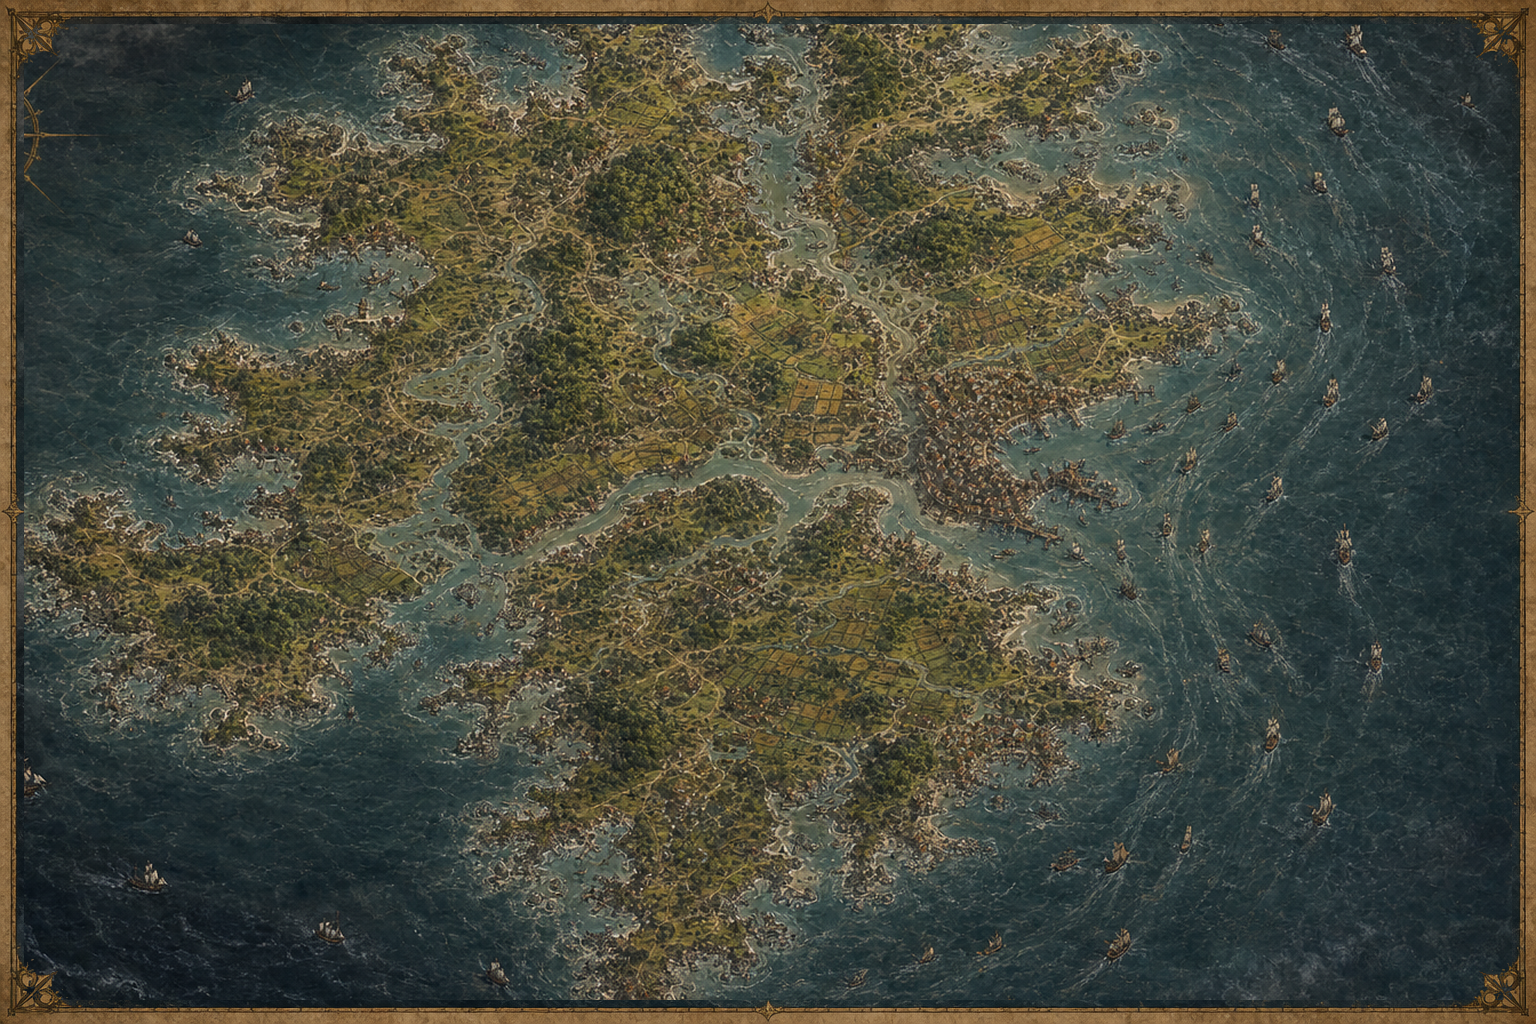
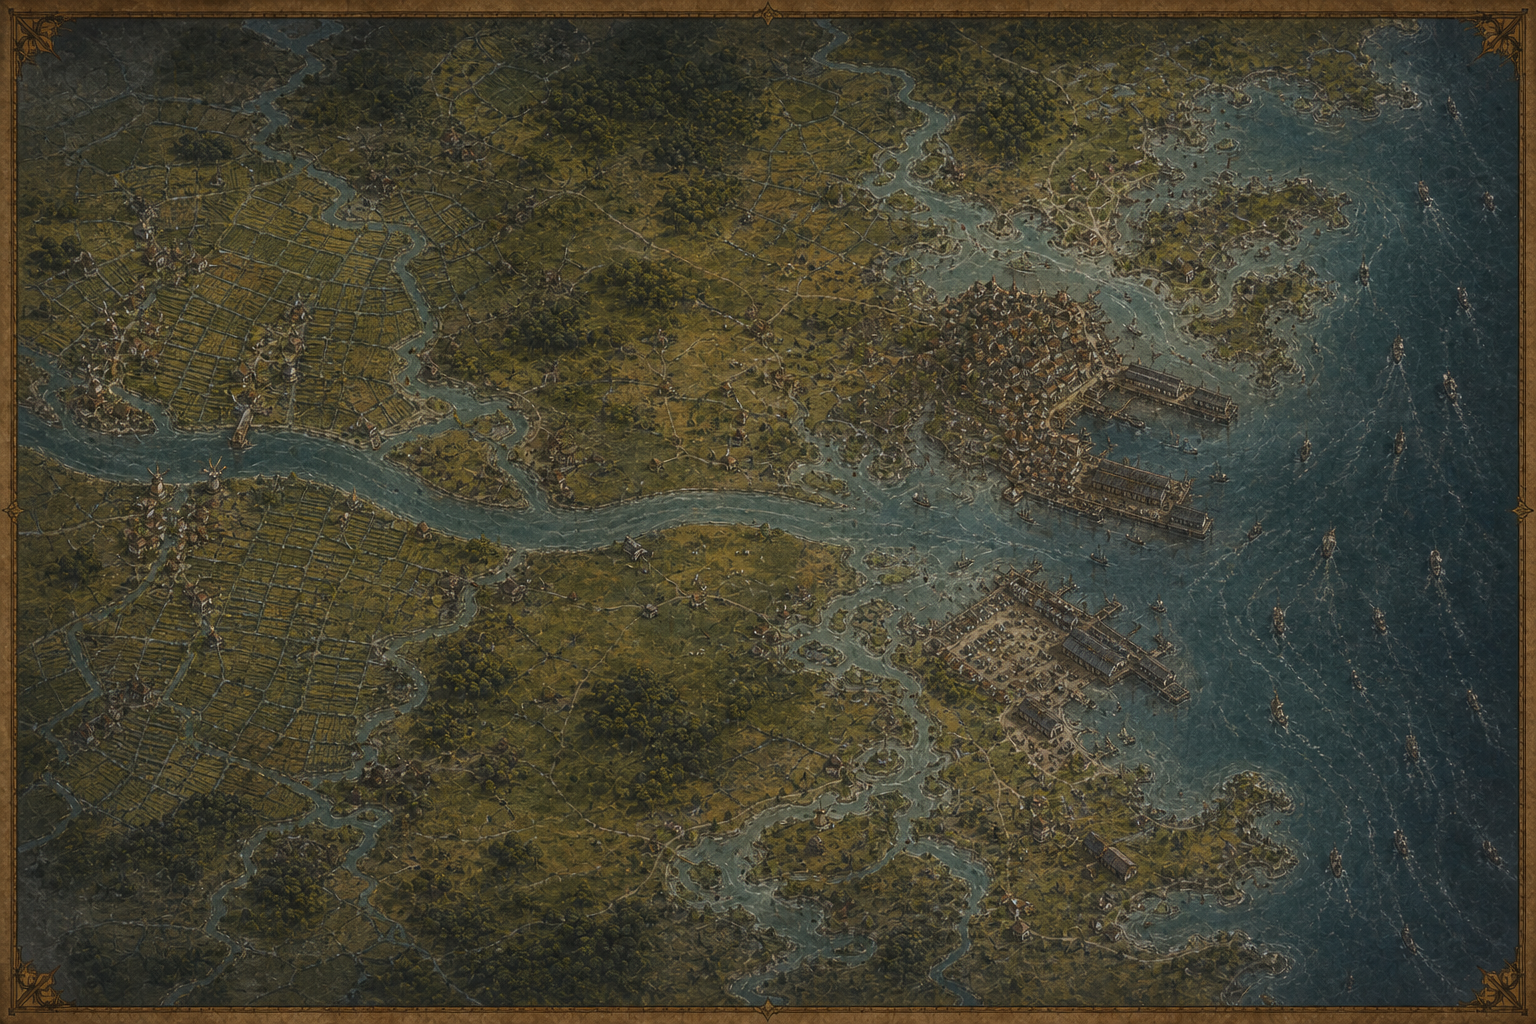
Paint distinct Chart-run and West Water sheets

diff --git a/14 - Assets/Maps/build_prototype3_regions.py b/14 - Assets/Maps/build_prototype3_regions.py
@@ -1,121 +1,20 @@
 #!/usr/bin/env python3
-"""Build the Strandoren regional windows from the Prototype 3 master.
+"""Retired crop builder.
 
-Chart-run and West Water remain literal parent windows. Sacred Core and
-Rain-Wall are separate generated regional paintings and must not be
-overwritten by this script.
+Sacred Core, Rain-Wall, Chart-run, and West Water are generated regional
+paintings inspired by their Prototype 3 parents. Do not rebuild them as
+crops of the continent masters; those windows made sibling sheets look
+identical.
 """
 
 from __future__ import annotations
 
-from dataclasses import dataclass
-from pathlib import Path
-
-import numpy as np
-from PIL import Image, ImageFilter, PngImagePlugin
-
-
-ROOT = Path(__file__).resolve().parent
-PROTOTYPE = ROOT / "prototype3"
-SIZE = (1536, 1024)
-
-
-@dataclass(frozen=True)
-class Region:
-    output: str
-    parent: str
-    crop: tuple[int, int, int, int]
-
-
-# Crop boxes are (left, top, right, bottom) in the 1536 x 1024 masters.
-# Each Strandoren window is 1344 x 896 (3:2), fitted 1.14x onto the sheet.
-REGIONS = (
-    Region(
-        "Chart-Run-Atlas.png",
-        "Strandoren-Atlas.png",
-        (192, 64, 1536, 960),
-    ),
-    Region(
-        "West-Water-Atlas.png",
-        "Strandoren-Atlas.png",
-        (0, 128, 1344, 1024),
-    ),
-)
-
-
-def apply_master_frame(image: Image.Image, master: Image.Image) -> Image.Image:
-    """Apply the parent's exact bronze rules and corner ornament."""
-    result = image.copy()
-    band = 24
-    result.paste(master.crop((0, 0, SIZE[0], band)), (0, 0))
-    result.paste(
-        master.crop((0, SIZE[1] - band, SIZE[0], SIZE[1])),
-        (0, SIZE[1] - band),
-    )
-    result.paste(master.crop((0, 0, band, SIZE[1])), (0, 0))
-    result.paste(
-        master.crop((SIZE[0] - band, 0, SIZE[0], SIZE[1])),
-        (SIZE[0] - band, 0),
-    )
-
-    # The corner flourishes extend beyond the rule. Copy only warm bronze
-    # pixels so no square of the master's ocean comes with the ornament.
-    master_pixels = np.asarray(master, dtype=np.int16)
-    red, green, blue = (
-        master_pixels[..., 0],
-        master_pixels[..., 1],
-        master_pixels[..., 2],
-    )
-    warm = (
-        (red > blue + 14)
-        & (green > blue + 4)
-        & (red > green + 4)
-        & ((red + green + blue) > 125)
-    )
-    corner_mask = np.zeros((SIZE[1], SIZE[0]), dtype=np.uint8)
-    corner = 96
-    for left, top in (
-        (0, 0),
-        (SIZE[0] - corner, 0),
-        (0, SIZE[1] - corner),
-        (SIZE[0] - corner, SIZE[1] - corner),
-    ):
-        area = warm[top : top + corner, left : left + corner]
-        corner_mask[top : top + corner, left : left + corner] = area * 255
-    mask = Image.fromarray(corner_mask, "L").filter(ImageFilter.GaussianBlur(0.4))
-    result.paste(master, (0, 0), mask)
-    return result
-
-
-def build(region: Region) -> None:
-    parent_path = PROTOTYPE / region.parent
-    master = Image.open(parent_path).convert("RGB")
-    if master.size != SIZE:
-        raise ValueError(f"{parent_path} must be {SIZE}, found {master.size}")
-
-    left, top, right, bottom = region.crop
-    if right - left != 1344 or bottom - top != 896:
-        raise ValueError(f"{region.output} crop must be 1344x896, found {region.crop}")
-    crop = master.crop(region.crop)
-    # LANCZOS only: extra sharpening made the mild upsample look crunchy.
-    image = crop.resize(SIZE, Image.Resampling.LANCZOS)
-    image = apply_master_frame(image, master)
-
-    metadata = PngImagePlugin.PngInfo()
-    metadata.add_text("atlas_parent", f"prototype3/{region.parent}")
-    metadata.add_text("atlas_crop", ",".join(map(str, region.crop)))
-    metadata.add_text(
-        "canon_note",
-        "Exact parent geography; incidental painted texture remains non-canon.",
-    )
-    output = ROOT / region.output
-    image.save(output, pnginfo=metadata, optimize=True)
-    print(f"Wrote {output} from {parent_path} crop {region.crop}")
-
 
 def main() -> None:
-    for region in REGIONS:
-        build(region)
+    raise SystemExit(
+        "Retired: regional atlas sheets are generated paintings. "
+        "See Map Generation Tooling.md."
+    )
 
 
 if __name__ == "__main__":

diff --git a/00 - Core/Meta/Roadmap.md b/00 - Core/Meta/Roadmap.md
@@ -523,7 +523,7 @@ Ordinary-job characters who become structural pivots. Draw from offices 7.2–7.
 
 > Manual tally — update when checking boxes. (Story/Task counts, not epics.)
 
-- **Atlas follow-up:** 8 / 8 regional sheets rebuilt and visually reviewed ✅ **2026-09-01.** Sacred Core and Rain-Wall are distinct generated Maiethorn-region paintings (Motherwood versus highland divide). Chart-run and West Water remain Strandoren parent windows via `build_prototype3_regions.py`. Non-canon interpolation boundary recorded on [[The Atlas Sheets]] and [[Map Generation Tooling]]. Thaeloren remains the only exceptional Tree. World book untouched.
+- **Atlas follow-up:** 8 / 8 regional sheets rebuilt and visually reviewed ✅ **2026-09-01.** Sibling region sheets are distinct generated paintings, not parent crops: Sacred Core versus Rain-Wall; Chart-run versus West Water. Crop builder retired. Non-canon interpolation boundary recorded on [[The Atlas Sheets]] and [[Map Generation Tooling]]. Thaeloren remains the only exceptional Tree. World book untouched.
 - **Epic 7 leftover — sick-Tree / guest-grove:** 4 / 4 tasks (100%) ✅ **2026-08-31.** [[The Mill-hold]] (Hands un-Hands; mill-race vs roots) · [[The First Bowl]] (guest-grove; two settings of one bowl). Lead road-end still a type. World book untouched.
 - **Pass two — verification:** 3 / 3 tasks of P2.1 (100%) ✅ **Story P2.1 complete 2026-08-31.** Later pass-two stories undecomposed. C-01 resolved; C-05 resolved in passing with the opening. **C-02 resolved 2026-08-31** by user-requested world-book rebuild. **C-06 resolved 2026-08-31** (Kumbaan "few or no Trees" hedge → no Tree).
 - **Epic 9 — Secrets & Canon:** 4 / 4 tasks of Story 9.1 (100%) ✅ **architecture done 2026-08-31.** Hub [[Revelation Architecture]] · [[Reveal Index]]. Clues [[The Uncoloured Intake]] · [[The Closed Lamp]]. Still alongside for new `reveals:`.

diff --git a/14 - Assets/Maps/Map Generation Tooling.md b/14 - Assets/Maps/Map Generation Tooling.md
@@ -116,15 +116,11 @@ and west left. Do not copy the whole continent into the frame.
 | R7 Live Front | `prototype3/Heskoren-Atlas.png` |
 | R8 Waiting Vale | `prototype3/Heskoren-Atlas.png` |
 
-**Sacred Core and Rain-Wall** are generated regional paintings inspired by `prototype3/Maiethorn-Atlas.png` and styled to the other region sheets. They must remain **visibly different subjects**: forest heart with one exceptional Tree versus highland divide. Do not rebuild them as overlapping crops of the same continent sheet.
+**Sacred Core and Rain-Wall** are generated regional paintings inspired by `prototype3/Maiethorn-Atlas.png`. They must remain **visibly different subjects**: forest heart with one exceptional Tree versus highland divide.
 
-**Chart-run and West Water** remain Strandoren parent windows:
+**Chart-run and West Water** are generated regional paintings inspired by `prototype3/Strandoren-Atlas.png`. They must remain **visibly different subjects**: interior river-to-estuary hinterland versus open Night Shore / West Water. Do not rebuild either pair as overlapping crops of the same continent sheet.
 
-```bash
-python3 "14 - Assets/Maps/build_prototype3_regions.py"
-```
-
-That script must not write Sacred Core or Rain-Wall.
+`build_prototype3_regions.py` is retired and must not overwrite those four files.
 
 **Visual review gate.** Reject a regional render if it is the same composition as another sheet, copies a whole continent into the frame, rotates/mirrors the parent, reverses a named river, adds text, introduces an exceptional Tree outside Sacred Core, or changes settlement scale. Reject Rain-Wall unless the divide is visibly made of irregular offset massifs, broad saddles, branching foothills, river-cut notches, and usable pass gaps. Match the selected set's dark weather-forward portolan hand, muted moss/umber land, iron-gall detail, and bronze frame.
 

diff --git a/14 - Assets/Maps/The Atlas Sheets.md b/14 - Assets/Maps/The Atlas Sheets.md
@@ -89,9 +89,9 @@ No graft. No city. The wall is the climate.
 ## Regional rebuild review — 2026-09-01
 
 - All eight sheets use the dark, weather-forward Prototype 3 portolan hand and bronze frame.
-- **Sacred Core and Rain-Wall** are distinct generated region paintings inspired by Maiethorn, not two crops of the same continent sheet. Sacred Core is the inland Motherwood with Thaeloren as the sole exceptional Tree. Rain-Wall is the highland divide: offset massifs, saddles, foothills, river notches, pass gaps, wet west and dry east, and no exceptional Tree.
-- Chart-run and West Water remain Strandoren parent windows via `build_prototype3_regions.py`.
-- Old Crossing retains the two facing Old World shores. Chart-run runs east into its established estuary. West Water remains the sparse open-ocean face.
+- **Sacred Core and Rain-Wall** are distinct generated region paintings inspired by Maiethorn. Sacred Core is the inland Motherwood with Thaeloren as the sole exceptional Tree. Rain-Wall is the highland divide: offset massifs, saddles, foothills, river notches, pass gaps, wet west and dry east, and no exceptional Tree.
+- **Chart-run and West Water** are distinct generated region paintings inspired by Strandoren, not two crops of the same continent sheet. Chart-run is the interior river-plain running east into the Salt Quay estuary. West Water is the sparse open-ocean Night Shore face.
+- Old Crossing retains the two facing Old World shores. `build_prototype3_regions.py` is retired.
 - Rain-Shadow remains the dry leeward country. Live Front keeps Harrow's rise, the ford, and three small downstream hearths. Waiting Vale stays behind the east-facing coast and does not show Harrow's canopy.
 - No labels, political borders, new named places, new powers, or canon claims were added.
 

diff --git a/00 - Core/Concept/Build Plan.md b/00 - Core/Concept/Build Plan.md
@@ -18,7 +18,7 @@ updated: 2026-09-01
 
 ## Active next
 
-**Atlas follow-up complete (2026-09-01).** Prototype 3 remains the selected master set. Sacred Core and Rain-Wall are distinct generated region paintings inspired by Maiethorn (forest heart with one exceptional Tree versus highland divide), styled to the other atlas sheets. Chart-run and West Water remain Strandoren parent windows. [[The Atlas Sheets]] and [[Map Generation Tooling]] record the contract. Incidental generated detail is non-canon. World book untouched.
+**Atlas follow-up complete (2026-09-01).** Prototype 3 remains the selected master set. Regional sheets that share a parent are distinct generated paintings, not continent crops: Sacred Core versus Rain-Wall (Maiethorn); Chart-run versus West Water (Strandoren). Styled to the rest of the atlas. [[The Atlas Sheets]] and [[Map Generation Tooling]] record the contract. Incidental generated detail is non-canon. World book untouched.
 
 **Leftovers 1 / 3 / 7 / 9 done (2026-08-31).** Conditions cross-link · climate/ecology · sick-Tree / guest-grove · revelation architecture. [[Roadmap#Epic 10 — Campaign|Epic 10]] Story 10.1 remains done — kit [[The Opening]], hub [[The Isolated Fall]]. Later campaign stories and remaining pass-two work stay undecomposed until asked. Epic R remains **closed**. Gate: [[Epic R Completion Gate 2026-08-31]]. Log: [[Contradictions]] (C-05 resolved in passing; **C-02** world-book rebuild; **C-06** Kumbaan Tree-hedge, 2026-08-31).
 
